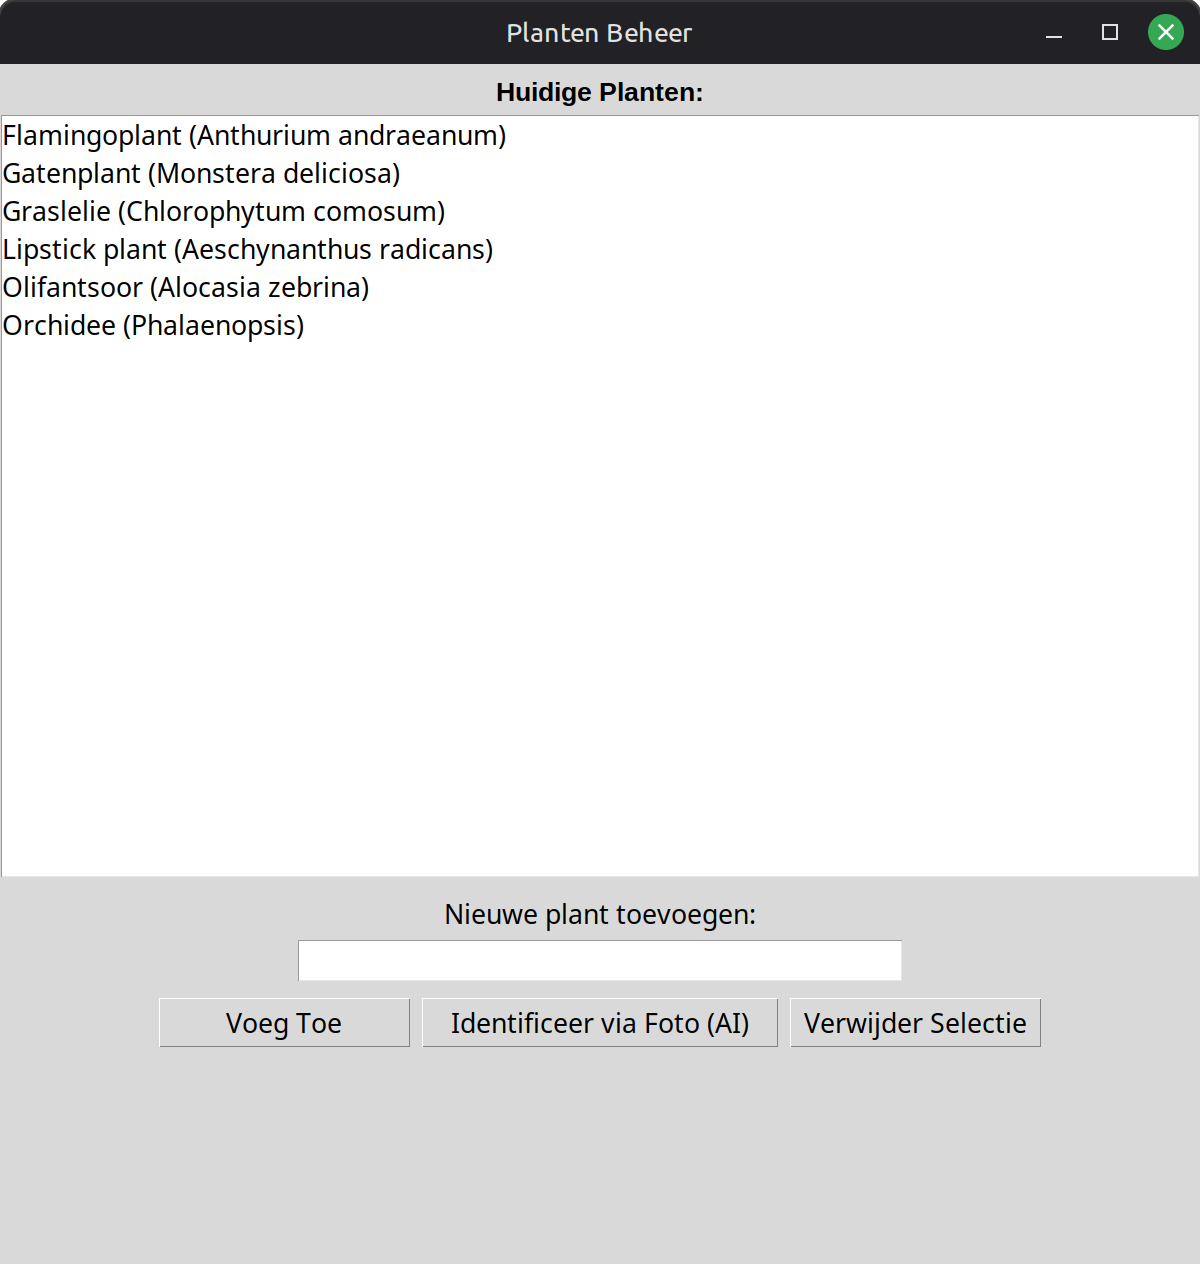
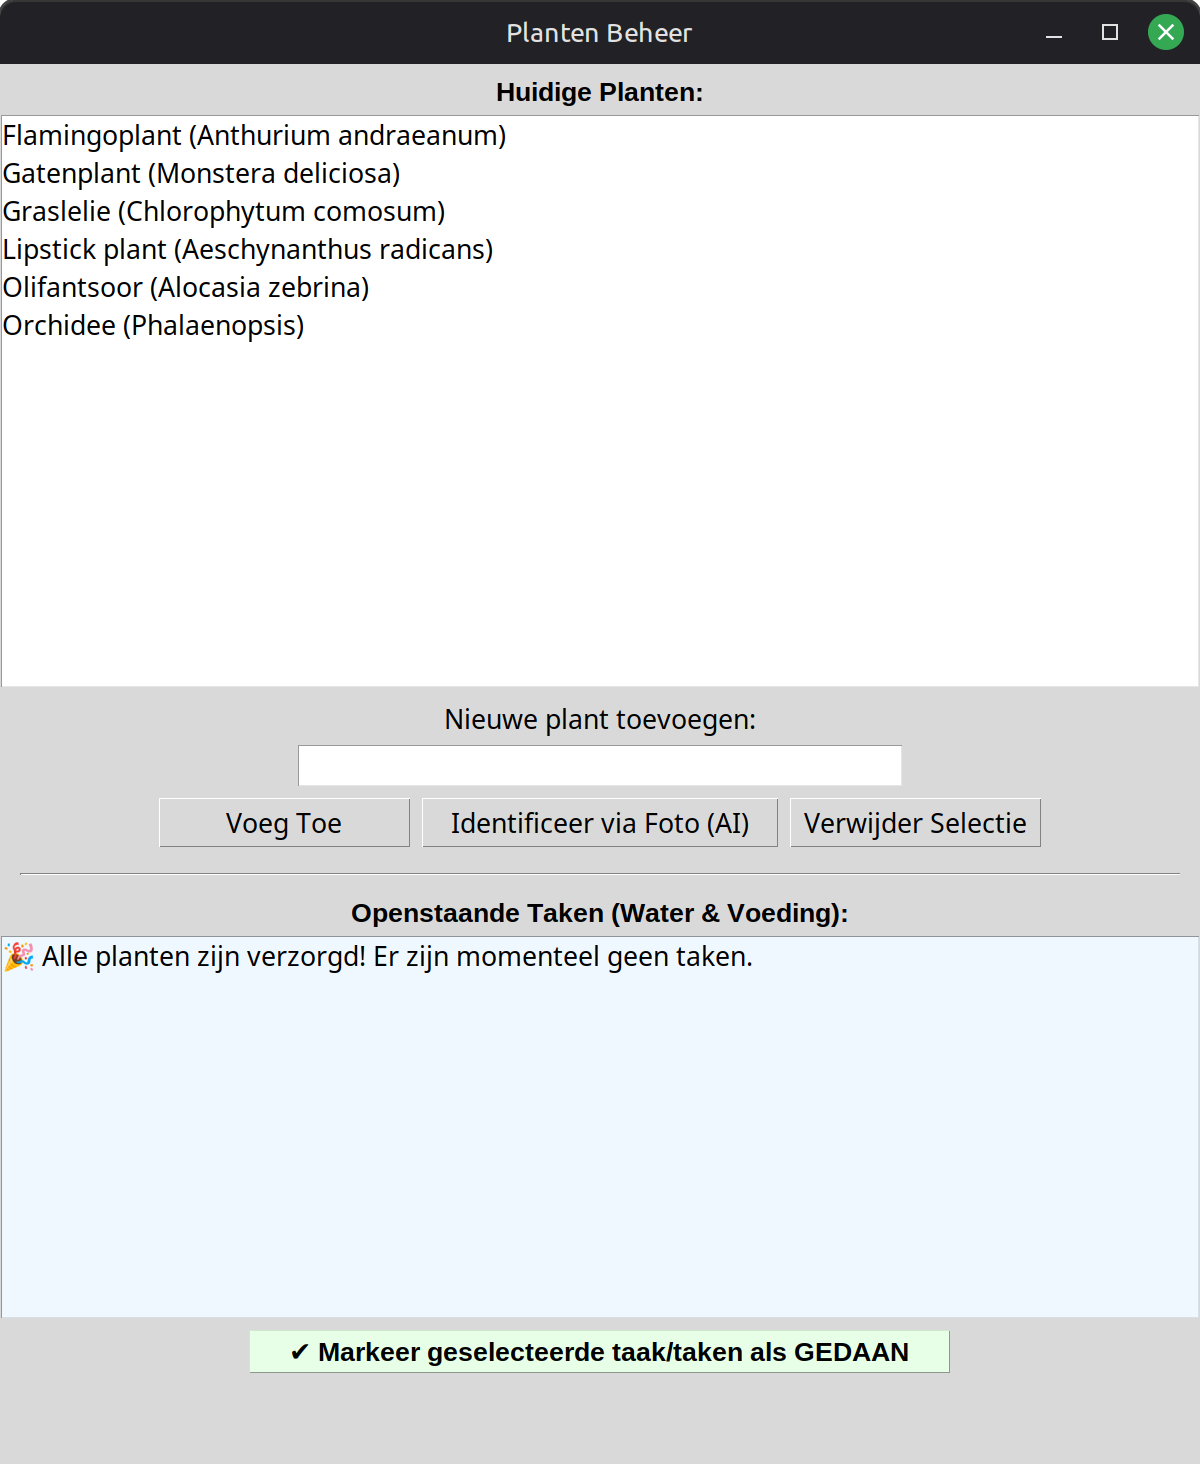
takenlijst

diff --git a/plant_manager.py b/plant_manager.py
@@ -5,19 +5,21 @@ import sys
 import fcntl
 import tkinter as tk
 from tkinter import messagebox, filedialog
-from datetime import datetime
+from datetime import datetime, timedelta
 import base64
 import requests
 
 DATA_FILE = os.path.join(os.path.dirname(__file__), 'plants.json')
 OLLAMA_API_URL = "http://localhost:11434/api/generate"
-OLLAMA_MODEL = "llava" # Wordt gebruikt voor zowel beeldherkenning als tekst/kennis
+OLLAMA_MODEL = "llava"
 
-# Enkele basisprofielen voor snelle offline herkenning (optioneel, fungeert als cache)
 PLANT_PROFILES = {
-    'alocasia': {'summer_interval': 14, 'winter_interval': None, 'water_interval': 7, 'water_amount': 'Royaal (kluit niet laten uitdrogen)'},
+    'alocasia': {'summer_interval': 14, 'winter_interval': None, 'water_interval': 7, 'water_amount': 'Royaal (kluit niet laten uitdrogen, geen natte voeten)'},
     'monstera': {'summer_interval': 21, 'winter_interval': None, 'water_interval': 10, 'water_amount': 'Matig (bovenste laag aarde iets laten opdrogen)'},
-    'orchidee': {'summer_interval': 14, 'winter_interval': 28, 'water_interval': 10, 'water_amount': 'Dompelen (ca. 10 minuten en goed laten uitlekken)'}
+    'orchidee': {'summer_interval': 14, 'winter_interval': 28, 'water_interval': 10, 'water_amount': 'Dompelen (ca. 10 minuten en goed laten uitlekken)'},
+    'vetplant': {'summer_interval': None, 'winter_interval': None, 'water_interval': 21, 'water_amount': 'Weinig (laat aarde volledig uitdrogen)'},
+    'cactus': {'summer_interval': None, 'winter_interval': None, 'water_interval': 28, 'water_amount': 'Zeer weinig (bijna droog laten staan)'},
+    'standaard': {'summer_interval': 30, 'winter_interval': None, 'water_interval': 7, 'water_amount': 'Matig (standaard waterbehoefte)'}
 }
 
 def load_data():
@@ -34,21 +36,23 @@ class PlantManager:
     def __init__(self, root):
         self.root = root
         self.root.title("Planten Beheer")
-        self.root.geometry("1200x1200")
+        self.root.geometry("1200x1400")
         
         self.data = load_data()
+        self.pending_tasks = [] 
         
+        # --- SECTIE 1: PLANTEN BEHEER ---
         tk.Label(root, text="Huidige Planten:", font=('Arial', 10, 'bold')).pack(pady=(10, 0))
-        self.listbox = tk.Listbox(root, width=120, height=20)
+        self.listbox = tk.Listbox(root, width=120, height=15)
         self.listbox.pack(pady=5)
         self.refresh_list()
         
-        tk.Label(root, text="Nieuwe plant toevoegen:").pack(pady=(10, 0))
+        tk.Label(root, text="Nieuwe plant toevoegen:").pack(pady=(5, 0))
         self.entry_name = tk.Entry(root, width=40)
         self.entry_name.pack(pady=5)
         
         frame_buttons = tk.Frame(root)
-        frame_buttons.pack(pady=10)
+        frame_buttons.pack(pady=5)
         
         btn_add = tk.Button(frame_buttons, text="Voeg Toe", command=self.add_plant, width=15)
         btn_add.grid(row=0, column=0, padx=5)
@@ -59,18 +63,89 @@ class PlantManager:
         btn_remove = tk.Button(frame_buttons, text="Verwijder Selectie", command=self.remove_plant, width=15)
         btn_remove.grid(row=0, column=2, padx=5)
 
+        tk.Frame(root, height=2, bd=1, relief=tk.SUNKEN).pack(fill=tk.X, padx=20, pady=20)
+
+        # --- SECTIE 2: TAKENLIJST ---
+        tk.Label(root, text="Openstaande Taken (Water & Voeding):", font=('Arial', 10, 'bold')).pack(pady=(0, 0))
+        
+        # selectmode=tk.EXTENDED zorgt ervoor dat je meerdere regels kunt selecteren met Ctrl of Shift
+        self.task_listbox = tk.Listbox(root, width=120, height=10, bg="#f0f8ff", selectmode=tk.EXTENDED) 
+        self.task_listbox.pack(pady=5)
+        
+        btn_done = tk.Button(root, text="✔ Markeer geselecteerde taak/taken als GEDAAN", command=self.mark_task_done, width=45, font=('Arial', 10, 'bold'), bg="#e6ffe6")
+        btn_done.pack(pady=5)
+        
+        self.refresh_tasks()
+
     def refresh_list(self):
         self.listbox.delete(0, tk.END)
         for plant in sorted(self.data.keys()):
             self.listbox.insert(tk.END, plant)
 
+    def refresh_tasks(self):
+        self.task_listbox.delete(0, tk.END)
+        self.pending_tasks.clear()
+        
+        today = datetime.now()
+        is_winter = today.month in [11, 12, 1, 2]
+        
+        for plant, data in self.data.items():
+            last_watered = datetime.strptime(data['last_watered'], "%Y-%m-%d")
+            next_water = last_watered + timedelta(days=data['water_interval'])
+            
+            if today >= next_water:
+                overdue = (today - next_water).days
+                self.pending_tasks.append({'plant': plant, 'type': 'water'})
+                self.task_listbox.insert(tk.END, f"💧 WATER: {plant} ({overdue} dagen te laat) - Advies: {data['water_amount']}")
+                
+            fert_interval = data['winter_interval'] if is_winter else data['summer_interval']
+            if fert_interval is not None:
+                last_fert = datetime.strptime(data['last_fertilized'], "%Y-%m-%d")
+                next_fert = last_fert + timedelta(days=fert_interval)
+                
+                if today >= next_fert:
+                    overdue = (today - next_fert).days
+                    self.pending_tasks.append({'plant': plant, 'type': 'voeding'})
+                    self.task_listbox.insert(tk.END, f"🧪 VOEDING: {plant} ({overdue} dagen te laat)")
+                    
+        if not self.pending_tasks:
+            self.task_listbox.insert(tk.END, "🎉 Alle planten zijn verzorgd! Er zijn momenteel geen taken.")
+
+    def mark_task_done(self):
+        selected_indices = self.task_listbox.curselection()
+        if not selected_indices:
+            messagebox.showwarning("Selectie Fout", "Selecteer eerst minimaal één taak in de lijst (gebruik Ctrl voor meerdere).")
+            return
+            
+        tasks_completed = 0
+        today_str = datetime.now().strftime("%Y-%m-%d")
+        
+        for idx in selected_indices:
+            if idx >= len(self.pending_tasks):
+                continue # Sla de "🎉 Alle planten verzorgd" tekst over
+                
+            task = self.pending_tasks[idx]
+            plant = task['plant']
+            task_type = task['type']
+            
+            if task_type == 'water':
+                self.data[plant]['last_watered'] = today_str
+            elif task_type == 'voeding':
+                self.data[plant]['last_fertilized'] = today_str
+                
+            tasks_completed += 1
+            
+        if tasks_completed > 0:
+            save_data(self.data)
+            self.refresh_tasks()
+            messagebox.showinfo("Succes", f"Er zijn {tasks_completed} ta(a)k(en) afgevinkt. De data zijn gereset naar vandaag.")
+
     def fetch_profile_via_ai(self, plant_name):
-        """Raadpleegt de LLM om de water- en mestbehoefte op te zoeken en als JSON te retourneren."""
         prompt = (
             f"Je bent een botanisch expert. Geef de verzorgingsbehoefte voor de kamerplant '{plant_name}'. "
-            "Antwoord UITSLUITEND met geldige JSON. Geef geen introductie, geen markdown (zoals ```json), en geen extra tekst. "
+            "Antwoord UITSLUITEND met geldige JSON. Geef geen introductie, geen markdown, en geen extra tekst. "
             "Gebruik exact deze sleutels:\n"
-            "- \"summer_interval\": aantal dagen tussen voeding in zomer (integer) of null als geen voeding nodig is.\n"
+            "- \"summer_interval\": aantal dagen tussen voeding in zomer (integer) of null.\n"
             "- \"winter_interval\": aantal dagen tussen voeding in winter (integer) of null.\n"
             "- \"water_interval\": aantal dagen tussen water geven (integer).\n"
             "- \"water_amount\": Korte Nederlandse instructie over de hoeveelheid water (string)."
@@ -83,13 +158,10 @@ class PlantManager:
             response.raise_for_status()
             ai_result = response.json().get("response", "").strip()
             
-            # Verwijder eventuele markdown formatting als het model dit toch toevoegt
             if ai_result.startswith("```json"):
                 ai_result = ai_result.replace("```json", "").replace("```", "").strip()
                 
             profile = json.loads(ai_result)
-            
-            # Valideer of de benodigde keys aanwezig zijn
             required_keys = ['summer_interval', 'winter_interval', 'water_interval', 'water_amount']
             if all(key in profile for key in required_keys):
                 return profile
@@ -100,12 +172,10 @@ class PlantManager:
 
     def get_profile(self, name):
         name_lower = name.lower()
-        # 1. Zoek in hardcoded basisprofielen
         for key, profile in PLANT_PROFILES.items():
             if key in name_lower:
                 return profile, f"lokaal profiel '{key}'"
         
-        # 2. Vraag AI om het op te zoeken op basis van zijn getrainde kennis
         self.root.config(cursor="watch")
         self.root.update()
         ai_profile = self.fetch_profile_via_ai(name)
@@ -114,7 +184,6 @@ class PlantManager:
         if ai_profile:
             return ai_profile, "AI gegenereerd (internetkennis)"
             
-        # 3. Fallback als de AI faalt of niet bereikbaar is
         standaard = {'summer_interval': 30, 'winter_interval': None, 'water_interval': 7, 'water_amount': 'Matig (standaard waterbehoefte)'}
         return standaard, "standaard fallback (AI onbereikbaar)"
 
@@ -169,6 +238,7 @@ class PlantManager:
         
         save_data(self.data)
         self.refresh_list()
+        self.refresh_tasks() 
         self.entry_name.delete(0, tk.END)
         messagebox.showinfo("Succes", f"'{name}' is toegevoegd.\nSchema gebaseerd op: {bron}.")
 
@@ -181,6 +251,7 @@ class PlantManager:
             del self.data[name]
             save_data(self.data)
             self.refresh_list()
+            self.refresh_tasks()
 
 if __name__ == "__main__":
     lock_file_path = os.path.join(os.path.dirname(__file__), '.plant_manager.lock')

diff --git a/README.md b/README.md
@@ -19,33 +19,35 @@ graph TD
     F -->|Leest data| D
     F -->|Indien actie nodig| G[Stuur Desktop Melding]
 ```
-Onderdelen in deze map:
-plants.json: De lokale database waarin de statussen, water- en voedingsintervallen van al je planten zijn opgeslagen.
 
-plant_manager.py: De grafische Tkinter-interface (1200x1200px, lijsthoogte 20) om je planten te beheren.
+### Onderdelen in deze map:
+* **`plants.json`**: De lokale database waarin de statussen, water- en voedingsintervallen van al je planten zijn opgeslagen.
+* **`plant_manager.py`**: De grafische Tkinter-interface (1200x1400px) om je planten te beheren.
+  - *🔒 Single Instance Lock*: Maakt gebruik van een fcntl lock-file (`.plant_manager.lock`) om te voorkomen dat de app meerdere keren tegelijk opent.
+  - *🧠 Tweetraps AI*: Identificeert planten via foto's en genereert direct het bijbehorende verzorgingsschema.
+  - *✅ Dynamische Takenlijst*: Een overzicht van openstaande taken (water/voeding) dat multi-select ondersteunt (met Ctrl of Shift) om meerdere planten in één keer af te vinken.
+* **`check_plants.py`**: Het achtergrondscript dat berekent of planten water of voeding nodig hebben en dit via native desktopnotificaties (`notify-send`) meldt.
 
-🔒 Single Instance Lock: Maakt gebruik van een fcntl lock-file (.plant_manager.lock) om te voorkomen dat de app meerdere keren tegelijk opent.
+---
 
-🧠 Tweetraps AI:
+## 🛠 Installatie & Setup
 
-Identificatie: Een foto wordt naar Ollama gestuurd om de plant te herkennen.
+### 1. Vereisten
+Installeer de benodigde Python-bibliotheek voor de Ollama API-calls:
+`pip install requests`
 
-Dynamisch Schema: Bij het toevoegen genereert Ollama on-the-fly een perfect water- en voedingsschema in JSON-formaat voor de specifieke plant.
+Zorg dat je lokale Ollama-service actief is en haal het vision/taal-model op:
+`ollama pull llava`
 
-check_plants.py: Het achtergrondscript dat berekent of planten water of voeding nodig hebben en dit via native desktopnotificaties (notify-send) meldt.
+### 2. Snelkoppeling (Desktop & Menu)
+Om de manager direct te kunnen starten, staat er een snelkoppeling in deze map. Je kunt deze kopiëren naar je desktop of je applicatiemenu:
+`cp ~/tools/plants/PlantenBeheer.desktop ~/.local/share/applications/`
 
-🛠 Installatie & Setup
-1. Vereisten
-Installeer de benodigde Python-bibliotheek voor de Ollama API-calls:pip install requests
-
-Zorg dat je lokale Ollama-service actief is en haal het vision/taal-model op:ollama pull llava
-
-2. Snelkoppeling (Desktop & Menu)
-Om de manager direct te kunnen starten, staat er een snelkoppeling in deze map. Je kunt deze kopiëren naar je desktop of je applicatiemenu:cp ~/tools/plants/PlantenBeheer.desktop ~/.local/share/applications/
-
-3. Automatische Dagelijkse Check (Cronjob)
+### 3. Automatische Dagelijkse Check (Cronjob)
 Om elke ochtend om 09:00 uur automatisch een notificatie te krijgen, voeg je het achtergrondscript toe aan je cronjobs.
 
-Open je crontab:crontab -e
+Open je crontab:
+`crontab -e`
 
-Voeg de volgende regel onderaan toe:0 9 * * * export DISPLAY=:0 && export DBUS_SESSION_BUS_ADDRESS="unix:path=/run/user/$(id -u)/bus" && /home/$USER/tools/plants/check_plants.py
+Voeg de volgende regel onderaan toe:
+`0 9 * * * export DISPLAY=:0 && export DBUS_SESSION_BUS_ADDRESS="unix:path=/run/user/$(id -u)/bus" && /home/$USER/tools/plants/check_plants.py`
